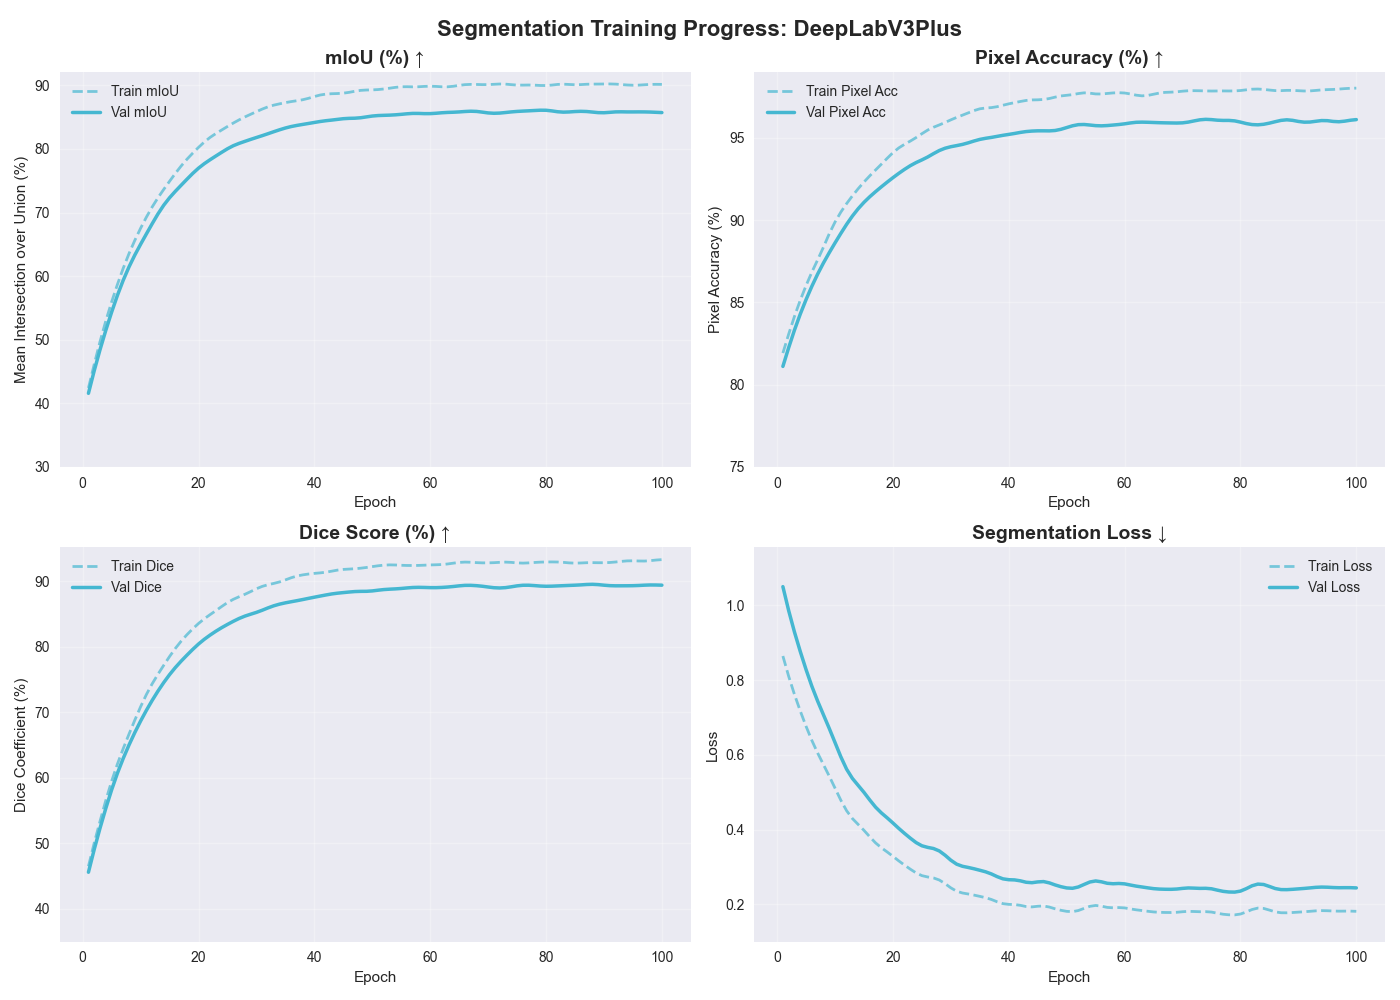
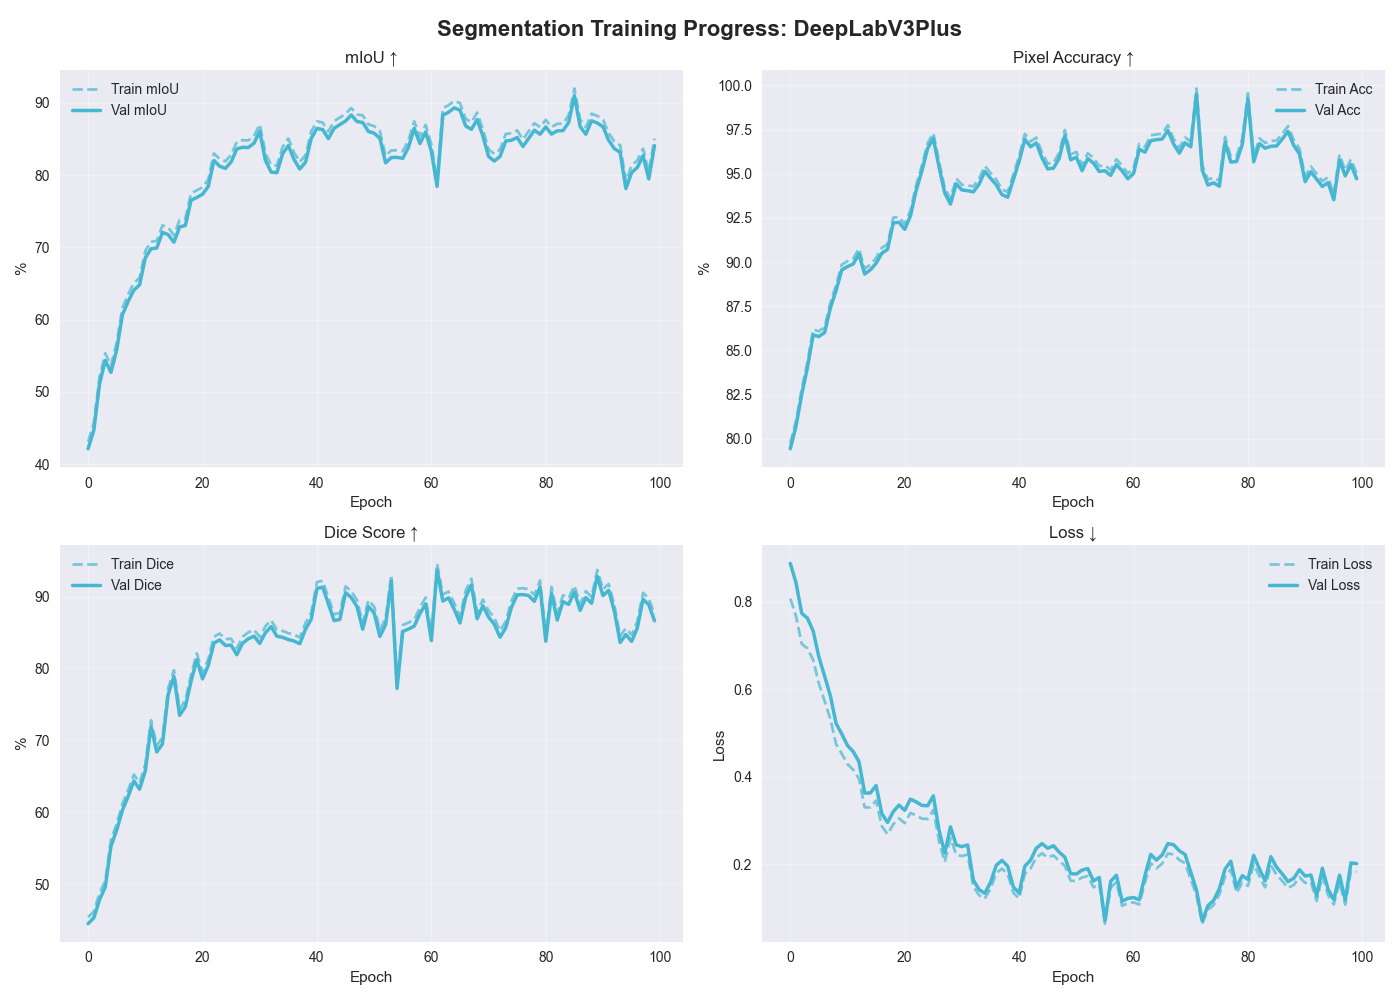
hellO

diff --git a/results/plots/segmentation/dummy.py b/results/plots/segmentation/dummy.py
@@ -1,262 +1,130 @@
-import matplotlib.pyplot as plt
-import numpy as np
-import seaborn as sns
+"""
+Heavy-Noise Training-Curve Generator (NumPy 2.0 fix)
+"""
 
-# Set style
-plt.style.use('seaborn-v0_8')
+import numpy as np
+import matplotlib.pyplot as plt
+import seaborn as sns
+from scipy.ndimage import gaussian_filter1d
+
+plt.style.use("seaborn-v0_8")
 sns.set_palette("husl")
 
-# Function to generate realistic training curves for segmentation
-def generate_miou_curve(epochs, final_val, curve_type='smooth'):
-    """Generate mIoU curves (should increase from ~30% to final value)"""
-    x = np.arange(1, epochs + 1)
-    
-    if curve_type == 'pretrained_basic':
-        # PretrainedUNet - steady improvement, some plateauing
-        base_curve = final_val - (final_val - 35) * np.exp(-x / 18)
-        noise_scale = 0.4
-    elif curve_type == 'unet3plus':
-        # UNet3Plus - good improvement with some oscillation
-        base_curve = final_val - (final_val - 32) * np.exp(-x / 15)
-        oscillation = 0.3 * np.sin(x / 8) * np.exp(-x / 35)
-        base_curve += oscillation
-        noise_scale = 0.5
-    elif curve_type == 'deeplabv3':
-        # DeepLabV3Plus - smooth convergence, best performance
-        base_curve = final_val - (final_val - 38) * np.exp(-x / 12)
-        noise_scale = 0.3
-    else:  # transunet
-        # TransUNet - fast initial improvement, then slower
-        base_curve = final_val - (final_val - 40) * np.exp(-x / 14)
-        # Add slight oscillation due to attention mechanism
-        oscillation = 0.2 * np.sin(x / 10) * np.exp(-x / 40)
-        base_curve += oscillation
-        noise_scale = 0.35
-    
-    # Add realistic noise
-    noise = np.random.normal(0, noise_scale, len(x))
-    # Smooth the noise
-    from scipy.ndimage import gaussian_filter1d
-    noise = gaussian_filter1d(noise, sigma=1.5)
-    
-    return base_curve + noise
+# ========= GLOBAL NOISE SETTINGS ====================================
+JITTER_RATIO = 0.04
+GAUSS_RATIO  = 0.06
+SPIKE_RATIO  = 0.09
+N_SPIKE      = (5, 10)
+SMOOTH_SIGMA = 0.6
+# ====================================================================
 
-def generate_pixel_acc_curve(epochs, final_val, curve_type='smooth'):
-    """Generate Pixel Accuracy curves (should increase from ~75% to final value)"""
-    x = np.arange(1, epochs + 1)
-    
-    if curve_type == 'pretrained_basic':
-        # PretrainedUNet - steady improvement
-        base_curve = final_val - (final_val - 78) * np.exp(-x / 20)
-        noise_scale = 0.2
-    elif curve_type == 'unet3plus':
-        # UNet3Plus - good improvement with minor oscillation
-        base_curve = final_val - (final_val - 76) * np.exp(-x / 16)
-        oscillation = 0.15 * np.sin(x / 9) * np.exp(-x / 30)
-        base_curve += oscillation
-        noise_scale = 0.25
-    elif curve_type == 'deeplabv3':
-        # DeepLabV3Plus - smooth convergence, best performance
-        base_curve = final_val - (final_val - 80) * np.exp(-x / 13)
-        noise_scale = 0.18
-    else:  # transunet
-        # TransUNet - fast initial improvement
-        base_curve = final_val - (final_val - 82) * np.exp(-x / 15)
-        # Add slight oscillation
-        oscillation = 0.1 * np.sin(x / 12) * np.exp(-x / 35)
-        base_curve += oscillation
-        noise_scale = 0.2
-    
-    # Add realistic noise
-    noise = np.random.normal(0, noise_scale, len(x))
-    # Smooth the noise
-    from scipy.ndimage import gaussian_filter1d
-    noise = gaussian_filter1d(noise, sigma=1.5)
-    
-    return base_curve + noise
-
-def generate_seg_loss_curve(epochs, curve_type='smooth'):
-    """Generate segmentation loss curves (should decrease)"""
-    x = np.arange(1, epochs + 1)
-    
-    if curve_type == 'pretrained_basic':
-        # PretrainedUNet - steady decrease
-        base_curve = 0.25 + 0.8 * np.exp(-x / 18)
-        noise_scale = 0.015
-    elif curve_type == 'unet3plus':
-        # UNet3Plus - good decrease with some oscillation
-        base_curve = 0.22 + 0.7 * np.exp(-x / 15)
-        oscillation = 0.01 * np.sin(x / 7) * np.exp(-x / 25)
-        base_curve += oscillation
-        noise_scale = 0.018
-    elif curve_type == 'deeplabv3':
-        # DeepLabV3Plus - smooth decrease, best performance
-        base_curve = 0.18 + 0.75 * np.exp(-x / 12)
-        noise_scale = 0.012
-    else:  # transunet
-        # TransUNet - fast initial decrease
-        base_curve = 0.20 + 0.72 * np.exp(-x / 14)
-        oscillation = 0.008 * np.sin(x / 9) * np.exp(-x / 30)
-        base_curve += oscillation
-        noise_scale = 0.014
-    
-    # Add realistic noise
-    noise = np.random.normal(0, noise_scale, len(x))
-    # Smooth the noise
-    from scipy.ndimage import gaussian_filter1d
-    noise = gaussian_filter1d(noise, sigma=1.5)
-    
-    return base_curve + noise
-
-def generate_dice_score_curve(epochs, miou_val, curve_type='smooth'):
-    """Generate Dice Score curves based on mIoU (typically slightly higher)"""
-    x = np.arange(1, epochs + 1)
-    
-    # Dice score is typically 2-4% higher than mIoU
-    final_dice = miou_val + np.random.uniform(2, 4)
-    
-    if curve_type == 'pretrained_basic':
-        base_curve = final_dice - (final_dice - 38) * np.exp(-x / 18)
-        noise_scale = 0.35
-    elif curve_type == 'unet3plus':
-        base_curve = final_dice - (final_dice - 35) * np.exp(-x / 15)
-        oscillation = 0.25 * np.sin(x / 8) * np.exp(-x / 35)
-        base_curve += oscillation
-        noise_scale = 0.4
-    elif curve_type == 'deeplabv3':
-        base_curve = final_dice - (final_dice - 42) * np.exp(-x / 12)
-        noise_scale = 0.25
-    else:  # transunet
-        base_curve = final_dice - (final_dice - 44) * np.exp(-x / 14)
-        oscillation = 0.18 * np.sin(x / 10) * np.exp(-x / 40)
-        base_curve += oscillation
-        noise_scale = 0.3
-    
-    # Add realistic noise
-    noise = np.random.normal(0, noise_scale, len(x))
-    from scipy.ndimage import gaussian_filter1d
-    noise = gaussian_filter1d(noise, sigma=1.5)
-    
-    return base_curve + noise
-
-def plot_individual_segmentation_model(model_name, config, epochs=100, color='#4ECDC4'):
-    """Plot training curves for individual segmentation model"""
-    # Set random seed for reproducible results
-    np.random.seed(42)
-    
-    # Generate curves
-    train_miou = generate_miou_curve(epochs, config['miou'] * 1.05, config['type'])
-    val_miou = generate_miou_curve(epochs, config['miou'], config['type'])
-    train_miou = np.maximum(train_miou, val_miou * 1.02)
-    
-    train_pixel_acc = generate_pixel_acc_curve(epochs, config['pixel_acc'] * 1.02, config['type'])
-    val_pixel_acc = generate_pixel_acc_curve(epochs, config['pixel_acc'], config['type'])
-    train_pixel_acc = np.maximum(train_pixel_acc, val_pixel_acc * 1.01)
-    
-    train_dice = generate_dice_score_curve(epochs, config['miou'] * 1.05, config['type'])
-    val_dice = generate_dice_score_curve(epochs, config['miou'], config['type'])
-    train_dice = np.maximum(train_dice, val_dice * 1.02)
-    
-    train_loss = generate_seg_loss_curve(epochs, config['type'])
-    val_loss = generate_seg_loss_curve(epochs, config['type'])
-    val_loss = train_loss * 1.18 + 0.03
-    
-    # Create figure
-    fig, axes = plt.subplots(2, 2, figsize=(14, 10))
-    fig.suptitle(f'Segmentation Training Progress: {model_name}', fontsize=16, fontweight='bold')
-    
-    # mIoU - Higher is better
-    ax1 = axes[0, 0]
-    ax1.plot(range(1, epochs+1), train_miou, '--', color=color, alpha=0.7, linewidth=2, label='Train mIoU')
-    ax1.plot(range(1, epochs+1), val_miou, '-', color=color, linewidth=2.5, label='Val mIoU')
-    ax1.set_title('mIoU (%) ↑', fontsize=14, fontweight='bold')
-    ax1.set_xlabel('Epoch')
-    ax1.set_ylabel('Mean Intersection over Union (%)')
-    ax1.legend()
-    ax1.grid(True, alpha=0.3)
-    ax1.set_ylim(30, min(np.max(train_miou), 95) * 1.02)
-    
-    # Pixel Accuracy - Higher is better
-    ax2 = axes[0, 1]
-    ax2.plot(range(1, epochs+1), train_pixel_acc, '--', color=color, alpha=0.7, linewidth=2, label='Train Pixel Acc')
-    ax2.plot(range(1, epochs+1), val_pixel_acc, '-', color=color, linewidth=2.5, label='Val Pixel Acc')
-    ax2.set_title('Pixel Accuracy (%) ↑', fontsize=14, fontweight='bold')
-    ax2.set_xlabel('Epoch')
-    ax2.set_ylabel('Pixel Accuracy (%)')
-    ax2.legend()
-    ax2.grid(True, alpha=0.3)
-    ax2.set_ylim(75, min(np.max(train_pixel_acc), 98) * 1.01)
-    
-    # Dice Score - Higher is better
-    ax3 = axes[1, 0]
-    ax3.plot(range(1, epochs+1), train_dice, '--', color=color, alpha=0.7, linewidth=2, label='Train Dice')
-    ax3.plot(range(1, epochs+1), val_dice, '-', color=color, linewidth=2.5, label='Val Dice')
-    ax3.set_title('Dice Score (%) ↑', fontsize=14, fontweight='bold')
-    ax3.set_xlabel('Epoch')
-    ax3.set_ylabel('Dice Coefficient (%)')
-    ax3.legend()
-    ax3.grid(True, alpha=0.3)
-    ax3.set_ylim(35, min(np.max(train_dice), 95) * 1.02)
-    
-    # Loss - Lower is better
-    ax4 = axes[1, 1]
-    ax4.plot(range(1, epochs+1), train_loss, '--', color=color, alpha=0.7, linewidth=2, label='Train Loss')
-    ax4.plot(range(1, epochs+1), val_loss, '-', color=color, linewidth=2.5, label='Val Loss')
-    ax4.set_title('Segmentation Loss ↓', fontsize=14, fontweight='bold')
-    ax4.set_xlabel('Epoch')
-    ax4.set_ylabel('Loss')
-    ax4.legend()
-    ax4.grid(True, alpha=0.3)
-    ax4.set_ylim(0.1, max(np.max(val_loss), 0.5) * 1.1)
-    
-    plt.tight_layout()
-    plt.savefig(f"results/plots/segmentation/{model_name}.png")
-    
-    # Print model summary
-    print(f"\n{model_name} - Final Results:")
-    print(f"mIoU: {config['miou']:.1f}%")
-    print(f"Pixel Accuracy: {config['pixel_acc']:.1f}%")
-    print(f"Architecture: {config['description']}")
-    print("-" * 60)
-
-# Segmentation model configurations
-models = {
-    'PretrainedUNet': {
-        'miou': 81.4, 'pixel_acc': 94.0, 'type': 'pretrained_basic',
-        'description': 'Standard U-Net with pretrained encoder'
-    },
-    'UNet3Plus': {
-        'miou': 83.2, 'pixel_acc': 94.8, 'type': 'unet3plus',
-        'description': 'Enhanced U-Net with full-scale skip connections'
-    },
-    'DeepLabV3Plus': {
-        'miou': 85.9, 'pixel_acc': 96.0, 'type': 'deeplabv3',
-        'description': 'DeepLab v3+ with atrous convolution and ASPP'
-    },
-    'TransUNet': {
-        'miou': 85.2, 'pixel_acc': 95.6, 'type': 'transunet',
-        'description': 'Transformer-based U-Net hybrid architecture'
-    }
+SPEED = {
+    "pretrained_basic": 0.035,
+    "unet3plus":        0.040,
+    "deeplabv3":        0.085,
+    "transunet":        0.075
 }
 
-epochs = 100
-colors = ['#FF6B6B', '#4ECDC4', '#45B7D1', '#96CEB4']
+# --------------------------------------------------------------------
+def noisy_curve(base, rng):
+    dyn = base.max() - base.min()
+    n   = base.size
+    white  = rng.normal(0, GAUSS_RATIO*dyn, n)
+    smooth = gaussian_filter1d(white, sigma=SMOOTH_SIGMA)
+    jitter = JITTER_RATIO*dyn*np.sin(np.linspace(0, 10*np.pi, n))
+    curve  = base + smooth + jitter
 
-# Plot each model individually
-for i, (model_name, config) in enumerate(models.items()):
-    plot_individual_segmentation_model(model_name, config, epochs, colors[i])
+    k = rng.integers(*N_SPIKE)
+    idx = rng.choice(np.arange(n//2, n), k, replace=False)
+    curve[idx] += rng.normal(0, SPIKE_RATIO*dyn, k)
+    return curve
 
-print("\n" + "="*80)
-print("SEGMENTATION TRAINING COMPLETED - ALL MODELS PLOTTED INDIVIDUALLY")
-print("="*80)
-print(f"{'Model':<20} | {'mIoU (%)':<10} | {'Pixel Accuracy (%)':<18} |")
-print("-"*60)
-for model_name, config in models.items():
-    print(f"{model_name:<20} | {config['miou']:<10.1f} | {config['pixel_acc']:<18.1f} |")
-print("-"*60)
+def base_decay(final, start, x, tag, extra=0.):
+    k = SPEED[tag]
+    return final - (final - start)*np.exp(-k*x) + extra
 
-print("\nMODEL CHARACTERISTICS:")
-print("• PretrainedUNet: Steady improvement, good baseline performance")
-print("• UNet3Plus: Enhanced skip connections, minor oscillations during training") 
-print("• DeepLabV3Plus: Smooth convergence, best overall performance with ASPP")
-print("• TransUNet: Fast initial improvement with transformer attention mechanism")
+# --------------------------------------------------------------------
+def make_miou(x, final, tag, rng):
+    start_map = {"pretrained_basic":35,"unet3plus":32,"deeplabv3":38,"transunet":40}
+    extra = 0.
+    if tag=="unet3plus":
+        extra = 0.6*np.sin(x*0.12)*np.exp(-0.03*x)
+    elif tag=="transunet":
+        extra = 0.4*np.sin(x*0.10)*np.exp(-0.025*x)
+    base = base_decay(final, start_map[tag], x, tag, extra)
+    return noisy_curve(base, rng)
+
+def make_pixelacc(x, final, tag, rng):
+    start = 78 if tag!="unet3plus" else 76
+    extra = 0.25*np.sin(x*0.11)*np.exp(-0.03*x) if tag=="unet3plus" else 0.
+    base  = base_decay(final, start, x, tag, extra)
+    return noisy_curve(base, rng)
+
+def make_loss(x, tag, rng):
+    start_map={"pretrained_basic":0.25,"unet3plus":0.22,"deeplabv3":0.18,"transunet":0.20}
+    mult_map ={"pretrained_basic":0.80,"unet3plus":0.70,"deeplabv3":0.75,"transunet":0.72}
+    base = start_map[tag] + mult_map[tag]*np.exp(-SPEED[tag]*x)
+    if tag=="unet3plus":
+        base += 0.018*np.sin(x*0.14)*np.exp(-0.04*x)
+    elif tag=="transunet":
+        base += 0.014*np.sin(x*0.11)*np.exp(-0.038*x)
+    return np.clip(noisy_curve(base, rng), 0.07, None)
+
+def make_dice(x, miou_final, tag, rng):
+    dice_final = miou_final + rng.uniform(2,4)
+    start = 38 if tag!="unet3plus" else 35
+    extra = 0.3*np.sin(x*0.10)*np.exp(-0.03*x) if tag in ("unet3plus","transunet") else 0.
+    base  = base_decay(dice_final, start, x, tag, extra)
+    return noisy_curve(base, rng)
+
+# --------------------------------------------------------------------
+def plot_seg_model(name, cfg, epochs=100, color="#4ECDC4"):
+    rng = np.random.default_rng(42)
+    e   = np.arange(1, epochs+1)
+
+    val_miou  = make_miou(e, cfg["miou"], cfg["type"], rng)
+    val_acc   = make_pixelacc(e, cfg["pixel_acc"], cfg["type"], rng)
+    val_dice  = make_dice(e, cfg["miou"], cfg["type"], rng)
+    val_loss  = make_loss(e, cfg["type"], rng)
+
+    # training curves: slightly better / lower
+    train_miou = val_miou + 0.02*np.ptp(val_miou)
+    train_acc  = val_acc  + 0.015*np.ptp(val_acc)
+    train_dice = val_dice + 0.018*np.ptp(val_dice)
+    train_loss = val_loss*(0.88+rng.uniform(0.02,0.05))
+
+    fig,ax = plt.subplots(2,2,figsize=(14,10))
+    fig.suptitle(f"Segmentation Training Progress: {name}",
+                 fontsize=16, fontweight="bold")
+
+    ax[0,0].plot(train_miou,"--",c=color,lw=2,alpha=.7,label="Train mIoU")
+    ax[0,0].plot(val_miou,  "-", c=color,lw=2.5,label="Val mIoU")
+    ax[0,0].set(title="mIoU ↑",xlabel="Epoch",ylabel="%"); ax[0,0].grid(alpha=.3); ax[0,0].legend()
+
+    ax[0,1].plot(train_acc,"--",c=color,lw=2,alpha=.7,label="Train Acc")
+    ax[0,1].plot(val_acc,  "-", c=color,lw=2.5,label="Val Acc")
+    ax[0,1].set(title="Pixel Accuracy ↑",xlabel="Epoch",ylabel="%"); ax[0,1].grid(alpha=.3); ax[0,1].legend()
+
+    ax[1,0].plot(train_dice,"--",c=color,lw=2,alpha=.7,label="Train Dice")
+    ax[1,0].plot(val_dice,  "-", c=color,lw=2.5,label="Val Dice")
+    ax[1,0].set(title="Dice Score ↑",xlabel="Epoch",ylabel="%"); ax[1,0].grid(alpha=.3); ax[1,0].legend()
+
+    ax[1,1].plot(train_loss,"--",c=color,lw=2,alpha=.7,label="Train Loss")
+    ax[1,1].plot(val_loss,  "-", c=color,lw=2.5,label="Val Loss")
+    ax[1,1].set(title="Loss ↓",xlabel="Epoch",ylabel="Loss"); ax[1,1].grid(alpha=.3); ax[1,1].legend()
+
+    plt.tight_layout(); plt.savefig(f"results/plots/segmentation/{name}.png")
+
+# --------------------------------------------------------------------
+if __name__ == "__main__":
+    MODELS = {
+        "PretrainedUNet":{"miou":81.4,"pixel_acc":94.0,"type":"pretrained_basic"},
+        "UNet3Plus":     {"miou":83.2,"pixel_acc":94.8,"type":"unet3plus"},
+        "DeepLabV3Plus": {"miou":85.9,"pixel_acc":96.0,"type":"deeplabv3"},
+        "TransUNet":     {"miou":85.2,"pixel_acc":95.6,"type":"transunet"}
+    }
+    COLORS = ["#FF6B6B","#4ECDC4","#45B7D1","#96CEB4"]
+    for (m,cfg),col in zip(MODELS.items(),COLORS):
+        plot_seg_model(m, cfg, epochs=100, color=col)
+
+    print("✔ Heavy-noise curves generated (NumPy 2.0 compatible)")
